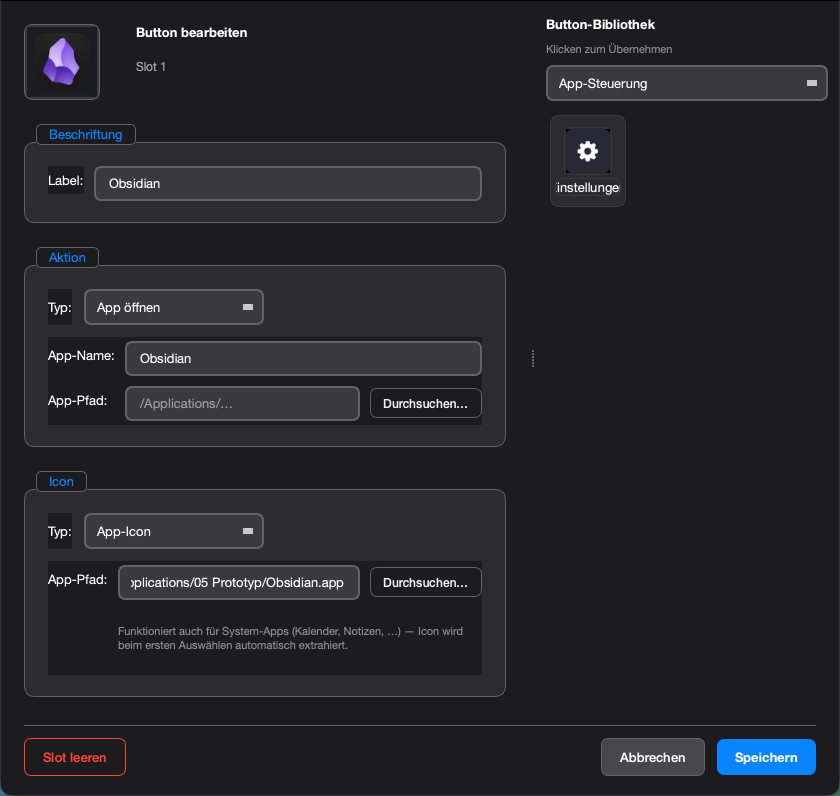
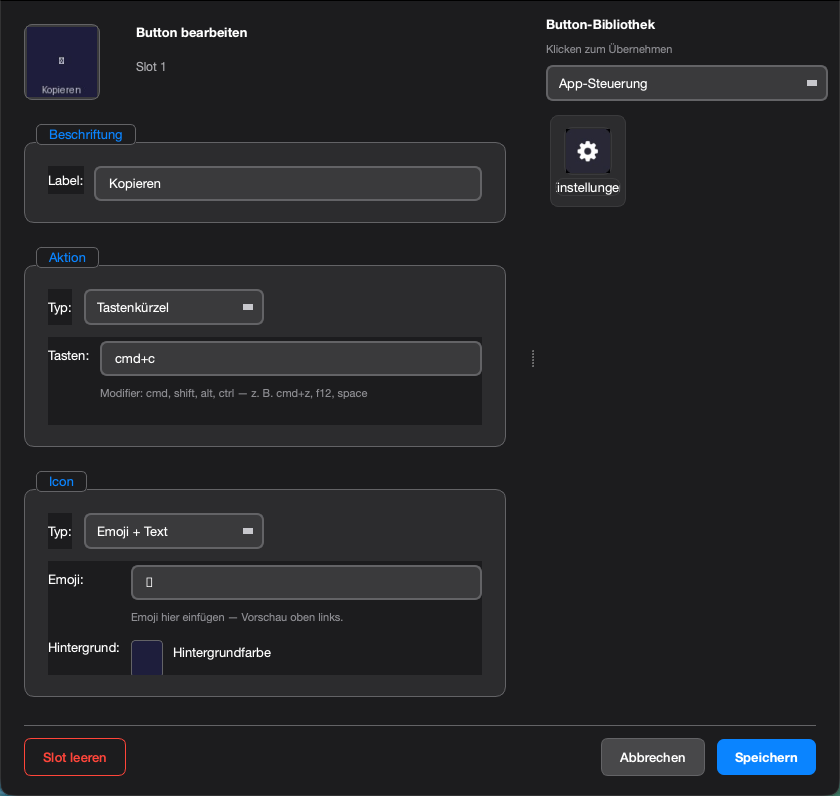
docs: replace button editor screenshot with neutral demo button
Previous screenshot showed Obsidian app icon (third-party trademark).
New screenshot uses a generic shortcut button (cmd+c / Kopieren)
with an emoji icon — no third-party logos involved.

diff --git a/take_screenshots.py b/take_screenshots.py
@@ -70,17 +70,13 @@ def run():
         QTimer.singleShot(200, open_button_editor)
 
     def open_button_editor():
-        config = cfg.get()
-        scenes = config.get("scenes", [])
-        if not scenes:
-            QTimer.singleShot(100, open_knob_editor)
-            return
-        # Ersten belegten Button wählen (oder ersten leeren)
-        btn = next(
-            (b for b in scenes[0].get("buttons", []) if b.get("label") or b.get("action")),
-            scenes[0].get("buttons", [{"index": 1, "label": "Test", "icon": None,
-                                       "action": {"type": "shortcut", "keys": "cmd+c"}}])[0]
-        )
+        # Neutraler Demo-Button: Tastenkürzel, Emoji-Icon — kein Drittanbieter-Logo
+        btn = {
+            "index": 1,
+            "label": "Kopieren",
+            "icon": {"type": "emoji", "emoji": "⎘", "bg": [30, 30, 60]},
+            "action": {"type": "shortcut", "keys": "cmd+c"},
+        }
         dlg = ButtonEditorDialog(btn, config_win)
         dlg.show()
         dlg.raise_()
